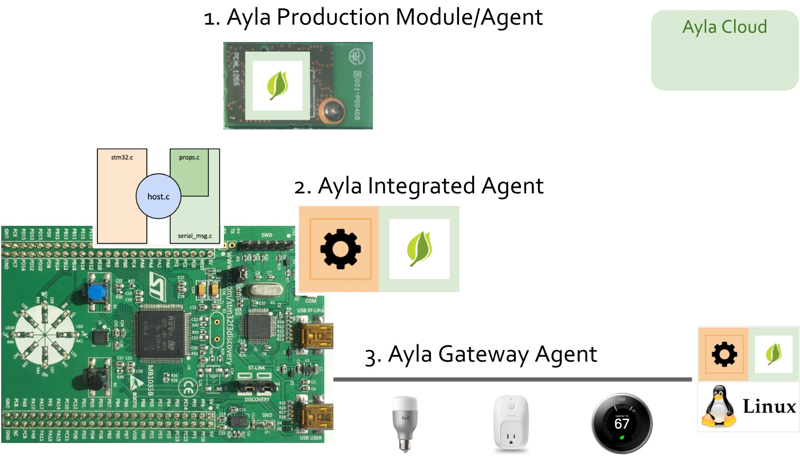
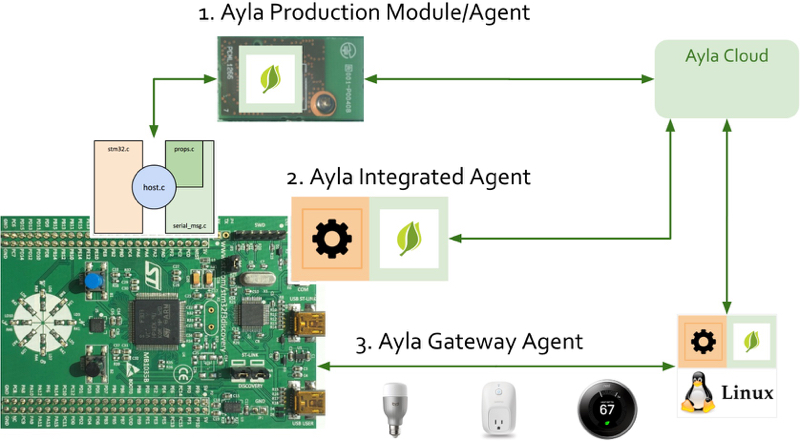
Modifications in early stage of writing guide

Changed region(s): [[0.0, 0.0, 1.0, 1.0]]

diff --git a/src/content/devices/adk/overview.md b/src/content/devices/adk/overview.md
@@ -3,51 +3,58 @@ title: Overview
 layout: devices-adk.html
 ---
 
-The Ayla Design Kit provides an efficient means of learning both the concepts and the C-programming skills required to connect a device to the Ayla Cloud using a Wi-Fi Production Module. Purchasable online at [Mouser Electronics](https://www.mouser.com/ProductDetail/LBWB1ZZYDZ-BTEMP-AYLAKIT?R=0virtualkey0virtualkeyLBWB1ZZYDZ-BTEMP-AYLAKIT) or [Embedded Works](http://www.embeddedworks.net/ayla.html), the Design Kit consists of an Ayla circuit board, a ST Microelectronics [STM32F3Discovery Board](https://www.st.com/en/evaluation-tools/stm32f3discovery.html?sc=stm32f3discovery), and a 5v USB power cable. See Figure 1.
+This guide introduces you to the code and concepts needed to connect devices to the Ayla Cloud using the Ayla Wi-Fi Production Module resident on the Ayla Design Kit. Figure 1 illustrates most of the tools you will use.
+
+<figure class="figure">
+<img class="figure-img" src="images/tools.jpg" width=500>
+<figcaption class="figure-caption">Figure 1: Tools.</figcaption>
+</figure>
+
+The Ayla Design Kit consists of an Ayla circuit board, a ST Microelectronics [STM32F3Discovery Board](https://www.st.com/en/evaluation-tools/stm32f3discovery.html?sc=stm32f3discovery), and a 5v USB power cable. See Figure 2. (The [Setup](/content/devices/adk/setup.html) chapter includes instructions for purchasing and registering the kit.)
 
 <figure class="figure">
 <img class="figure-img" src="images/ayla-design-kit-cable.jpg" width=500>
-<figcaption class="figure-caption">Figure 1: Ayla Design Kit.</figcaption>
+<figcaption class="figure-caption">Figure 2: Ayla Design Kit.</figcaption>
 </figure>
 
-The STM32 board represents any device that includes (1) a microcontroller (Host MCU) composed of a CPU, memory, and peripheral support functions, and (2) peripherals that send input to the MCU (e.g. Blue Button) and receive output from the MCU (e.g. LED Circle). See Figure 2.
+The STM32 board represents any device that includes (1) a microcontroller (Host MCU) composed of a CPU, memory, and peripheral support functions, and (2) peripherals that send input to the MCU (e.g. Blue Button) and receive output from the MCU (e.g. LED Circle). See Figure 3.
 
 <figure class="figure">
 <img class="figure-img" src="images/stm32-mcu-peripherals.jpg" width=420>
-<figcaption class="figure-caption">Figure 2: Device with MCU and peripherals.</figcaption>
+<figcaption class="figure-caption">Figure 3: Device with MCU and peripherals.</figcaption>
 </figure>
 
-Ayla provides three approaches to connecting devices to the cloud (see Figure 3):
+Ayla provides three approaches to connecting devices to the cloud (see Figure 4):
+<figure class="figure">
+<img class="figure-img" src="images/ayla-approaches-to-connectivity.jpg" width=500>
+<figcaption class="figure-caption">Figure 4: Ayla approaches to connectivity.</figcaption>
+</figure>
+
 1. **Ayla Production Module/Agent**. The device is physically connected (via SPI or UART) to an Ayla Production Module running Ayla Production Agent firmware, the MCU host application (host.c) is modified, and then it is linked to an Ayla library that knows how to talk to the module/agent.
 1. **Ayla Integrated Agent**. The Host MCU application on the device is linked directly with an Ayla Software Agent.
 1. **Ayla Gateway Agent**. The device is connected (often with other devices) to an Ayla Gateway Agent.
 
-<figure class="figure">
-<img class="figure-img" src="images/ayla-approaches-to-connectivity.jpg" width=500>
-<figcaption class="figure-caption">Figure 3: Ayla approaches to connectivity.</figcaption>
-</figure>
-
-The Ayla Design kit represents the first approach. See Figure 4.
+The Ayla Design kit represents the first approach. See Figure 5.
 
 <figure class="figure">
 <img class="figure-img" src="images/ayla-design-kit-host-app.jpg" width=500>
-<figcaption class="figure-caption">Figure 4: Ayla Design Kit host application.</figcaption>
+<figcaption class="figure-caption">Figure 5: Ayla Design Kit host application.</figcaption>
 </figure>
 
-In Figure 4, host.c is the host application. (This guide demostrates how to write several versions of host.c.) The other three source files, stm32.c, props.c, and serial_msg.c, are part of the Ayla host-based library. The first, stm32.c, interfaces with the STM32 board, handling interrupts from the Blue Button, and outputting on/off states to the LED Circle. The other two, props.c and serial_msg.c, perform I/O via serial interface to the Ayla Production Module/Agent which is the intermediary between the device and the Ayla Cloud. See Figure 5.
+In Figure 5, host.c is the host application. (This guide demostrates how to write several versions of host.c.) The other three source files, stm32.c, props.c, and serial_msg.c, are part of the Ayla host-based library. The first, stm32.c, interfaces with the STM32 board, handling interrupts from the Blue Button, and outputting on/off states to the LED Circle. The other two, props.c and serial_msg.c, perform I/O via serial interface to the Ayla Production Module/Agent which is the intermediary between the device and the Ayla Cloud. See Figure 6.
 
 <figure class="figure">
 <img class="figure-img" src="images/ayla-platform.jpg" width=700>
-<figcaption class="figure-caption">Figure 5: Ayla Platform.</figcaption>
+<figcaption class="figure-caption">Figure 6: Ayla Platform.</figcaption>
 </figure>
 
-Figure 5 depicts the Ayla Design Kit (bottom-left) with the STM32 board on the left and the Ayla board (carrying the Ayla Production Module running the Ayla Agent) on the right connected by serial interface. The Ayla Agent communicates with the cloud via the Ayla Device Service API. The Ayla Cloud instantiates a user-defined template to create a digital twin of the real-world device. The red, blue, and green circles of the digital twin represent LEDs on the actual device, and the larger blue circle represents the Blue Button. Mobile and web apps built with libraries wrapping API calls to the Ayla Cloud Service RESTful API interact with the digital twin to query and control the device. The dotted line indicates that when an application and the device are connected to the same LAN, they can communicate directly. Finally, the Data Streaming Service (DSS) underscores the Ayla Cloud's ability to integrate with other business systems in real-time.
+Figure 6 depicts the Ayla Design Kit (bottom-left) with the STM32 board on the left and the Ayla board (carrying the Ayla Production Module running the Ayla Agent) on the right connected by serial interface. The Ayla Agent communicates with the cloud via the Ayla Device Service API. The Ayla Cloud instantiates a user-defined template to create a digital twin of the real-world device. The red, blue, and green circles of the digital twin represent LEDs on the actual device, and the larger blue circle represents the Blue Button. Mobile and web apps built with libraries wrapping API calls to the Ayla Cloud Service RESTful API interact with the digital twin to query and control the device. The dotted line indicates that when an application and the device are connected to the same LAN, they can communicate directly. Finally, the Data Streaming Service (DSS) underscores the Ayla Cloud's ability to integrate with other business systems in real-time.
 
-The value of connecting a device to the Ayla Cloud benefits several stakeholders. See Figure 6.
+Connecting a device to the Ayla Cloud benefits several stakeholders. See Figure 7.
 
 <figure class="figure">
 <img class="figure-img" src="images/ayla-platform-value.jpg" width=700>
-<figcaption class="figure-caption">Figure 6: Ayla Platform value.</figcaption>
+<figcaption class="figure-caption">Figure 7: Ayla Platform value.</figcaption>
 </figure>
 
 Remote control is only one small part. Depending on how consumer data is aggregated and analyzed, consumers, service technicians, retailers, and manufacturers can leverage insights to improve efficiencies and performance. 

diff --git a/src/content/devices/adk/setup.md b/src/content/devices/adk/setup.md
@@ -3,4 +3,82 @@ title: Setup
 layout: devices-adk.html
 ---
 
+Note to author: The reader is in one of the several dissimilar situations listed below, and the goal of this chapter is to get all readers to the same point so that all readers can follow the instructions in the next chapter (Experiments).
 
+<table>
+<tr>
+<th class="center">Have an Ayla Account?</th>
+<th class="center">Have Ayla Design Kit?</th>
+<th class="center">Kit registered?</th>
+<th class="center">To your account?</th>
+<th class="center">Action plan</th>
+</tr>
+<tr>
+<td>no</td>
+<td>no</td>
+<td>&nbsp;</td>
+<td>&nbsp;</td>
+<td>sss</td>
+</tr>
+<tr>
+<td>no</td>
+<td>yes</td>
+<td>no</td>
+<td>&nbsp;</td>
+<td>sss</td>
+</tr>
+<tr>
+<td>no</td>
+<td>yes</td>
+<td>yes</td>
+<td>no</td>
+<td>sss</td>
+</tr>
+<tr>
+<td>yes</td>
+<td>no</td>
+<td>&nbsp;</td>
+<td>&nbsp;</td>
+<td>sss</td>
+</tr>
+<tr>
+<td>yes</td>
+<td>yes</td>
+<td>no</td>
+<td>&nbsp;</td>
+<td>sss</td>
+</tr>
+<tr>
+<td>yes</td>
+<td>yes</td>
+<td>yes</td>
+<td>no</td>
+<td>sss</td>
+</tr>
+<tr>
+<td>yes</td>
+<td>yes</td>
+<td>yes</td>
+<td>yes</td>
+<td>sss</td>
+</tr>
+</table>
+
+By the end of this chapter, each reader will be in the following state:
+
+1. Have an Ayla account.
+1. Have a design kit with OOB host app and agent. 
+1. Have an FTDI cable
+1. Design kit is registered to the reader's account.
+1. Design kit has a digital twin in the Ayla Cloud. They are talking. 
+1. Reader has AMAP and Aura on cell phone. Both can communicate with the digital twin. 
+1. Blue and green lights work, and blue button works.  
+
+
+[Mouser Electronics](https://www.mouser.com/ProductDetail/LBWB1ZZYDZ-BTEMP-AYLAKIT?R=0virtualkey0virtualkeyLBWB1ZZYDZ-BTEMP-AYLAKIT)
+
+[Embedded Works](http://www.embeddedworks.net/ayla.html)
+
+5v USB power cable
+
+[FTDI TTL-232R-3V3 cable](https://www.mouser.com/ProductDetail/FTDI/TTL-232R-3V3/?qs=Xb8IjHhkxj627GFcejHp0Q%3d%3d&gclid=EAIaIQobChMIzd6618P22wIVCJRpCh1owgzsEAAYASAAEgIItvD_BwE) (not included in the kit)

diff --git a/src/content/devices/adk/experiments.md b/src/content/devices/adk/experiments.md
@@ -3,4 +3,11 @@ title: Experiments
 layout: devices-adk.html
 ---
 
+# Installing serial drivers
+
+# Accessing the module with CLI
+
+# Updating the Ayla Agent firmware
+
+# Updating the host application
 
